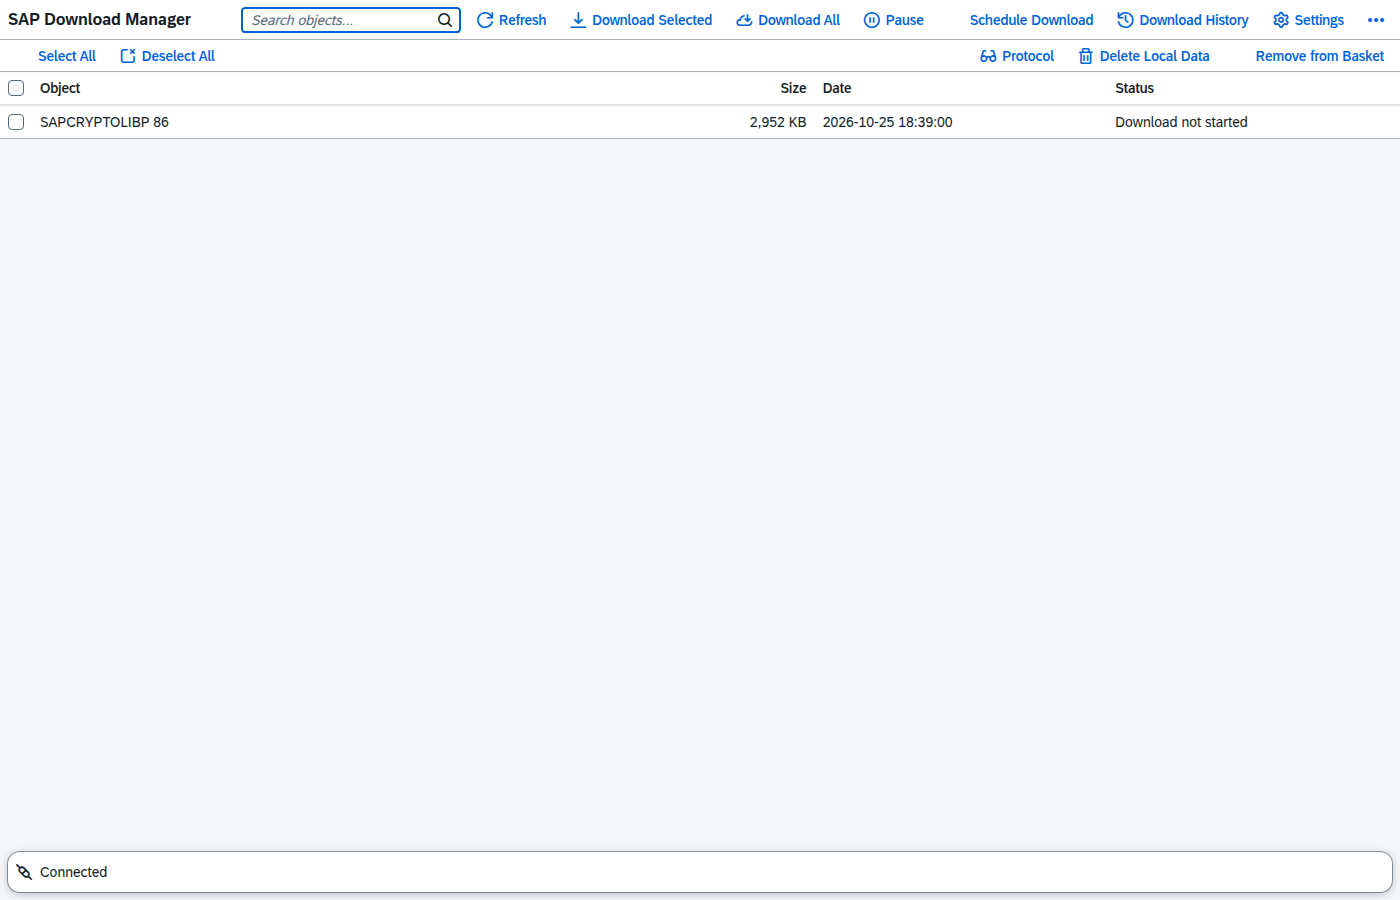
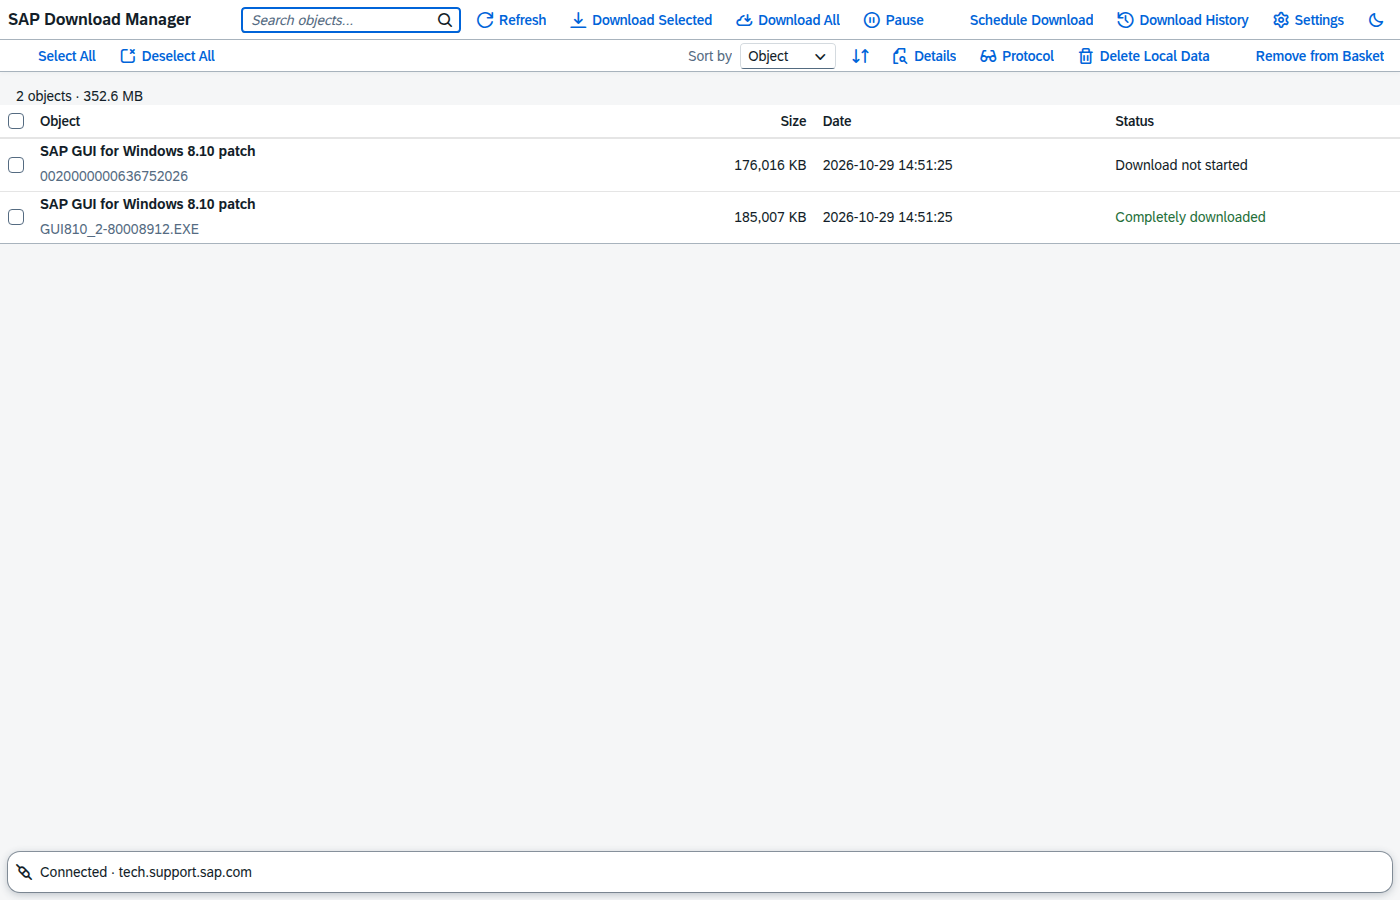
Show technical file names in the basket
Basket items often share the same description text (e.g. two
'SAP GUI for Windows 8.10 patch' entries differing only in size),
which made selecting the right one error-prone.

- The object column now uses an ObjectIdentifier with a technical
  second line: the local file names (known from the download attempt
  state, e.g. GUI810_2-80008912.EXE) or the dockey as fallback
- The basket API exposes local_files per item; the names themselves
  are not part of the basket protocol and become known only after a
  download attempt

diff --git a/web/controller/Basket.controller.js b/web/controller/Basket.controller.js
@@ -55,6 +55,12 @@ sap.ui.define([
 			var aItems = oModel.getProperty("/basket/items") || [];
 			var oProgress = oModel.getProperty("/progress") || {};
 			aItems.forEach(function (oItem) {
+				// Technical line: local file names once known (after a download
+				// attempt); the dockey otherwise - items often share the same
+				// description text and differ only in size and dockey.
+				oItem.tech_text = (oItem.local_files && oItem.local_files.length)
+					? oItem.local_files.join(", ")
+					: oItem.dockey;
 				// Registration date YYYYMMDD + hhmmss -> readable
 				var sDate = oItem.reg_date || "";
 				var sTime = oItem.reg_time || "";

diff --git a/sapdlm/api/service.py b/sapdlm/api/service.py
@@ -231,6 +231,13 @@ class Service:
         for item in self.basket.items.values():
             record = self.store.get_object(item.dockey)
             local_status = record.local_status if record else None
+            # Technical file names are known after a download attempt (from
+            # DOWNLOAD_START2); before that only the dockey distinguishes
+            # items with identical description texts.
+            local_files = [
+                c.file_name for c in self.store.components(item.dockey)
+                if c.file_name
+            ]
             items.append({
                 "dockey": item.dockey,
                 "text": item.text,
@@ -242,6 +249,7 @@ class Service:
                 "global_status": item.global_status,
                 "basket_status": item.basket_status,
                 "local_status": local_status,
+                "local_files": local_files,
                 "status_text": item.status_text(
                     local_status,
                     downloading=self.manager.is_downloading(item.dockey),

diff --git a/tests/test_api.py b/tests/test_api.py
@@ -356,3 +356,19 @@ def test_object_detail_endpoint(tmp_path, monkeypatch):
         assert "Kernel 7.49" in detail["description"]
 
         assert client.get("/api/objects/NOPE").status_code == 404
+
+
+def test_basket_items_include_local_files(tmp_path, monkeypatch):
+    """Basket items expose the technical file names once a download attempt
+    made them known (before that only the dockey distinguishes items with
+    identical description texts)."""
+    with make_client(tmp_path, monkeypatch=monkeypatch) as client:
+        configure(client)
+        wait_task(client, client.post("/api/basket/refresh").json()["task_id"])
+        basket = client.get("/api/basket").json()
+        assert basket["items"][0]["local_files"] == []
+
+        wait_task(client, client.post("/api/downloads/start",
+                                     json={"keys": ["K1"]}).json()["task_id"])
+        basket = client.get("/api/basket").json()
+        assert basket["items"][0]["local_files"] == ["comp.bin"]
